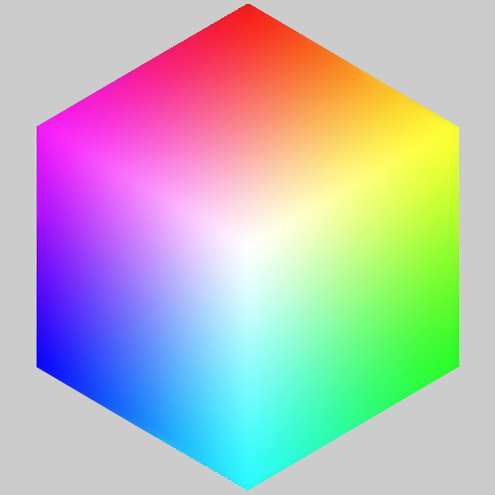
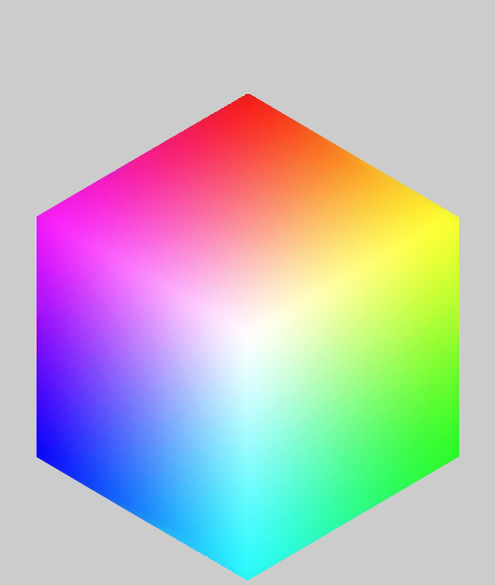
finally final form all corrected updated
FFFFFFFFFFUUUUUUUUUUUUUUUUUUU

diff --git a/index.html b/index.html
@@ -12,7 +12,7 @@
 <div class="primary-nav">LED Color Picker</div>
 <div class="content">
 
-<canvas width="495" height="495" id="canvas_picker"></canvas>
+<canvas width="495" height="585" id="canvas_picker"></canvas>
 <div class="output">
 <div id="hex">HEX: <input type="text"></input></div>
 <div id="rgb">RGB: <input type="text"></input></div>

diff --git a/colorpicker.css b/colorpicker.css
@@ -4,15 +4,9 @@ body{
     }
 
 .content{
-    padding-top: 3%;
+  
     font-family: 'Itim', cursive;
-    position:absolute;
-    top: 50px;
-    left:0px;
-    right:0px;
-    bottom:0px;
-    overflow-y:scroll;      
-    }
+          }
 
 .primary-nav {
     position: fixed;
